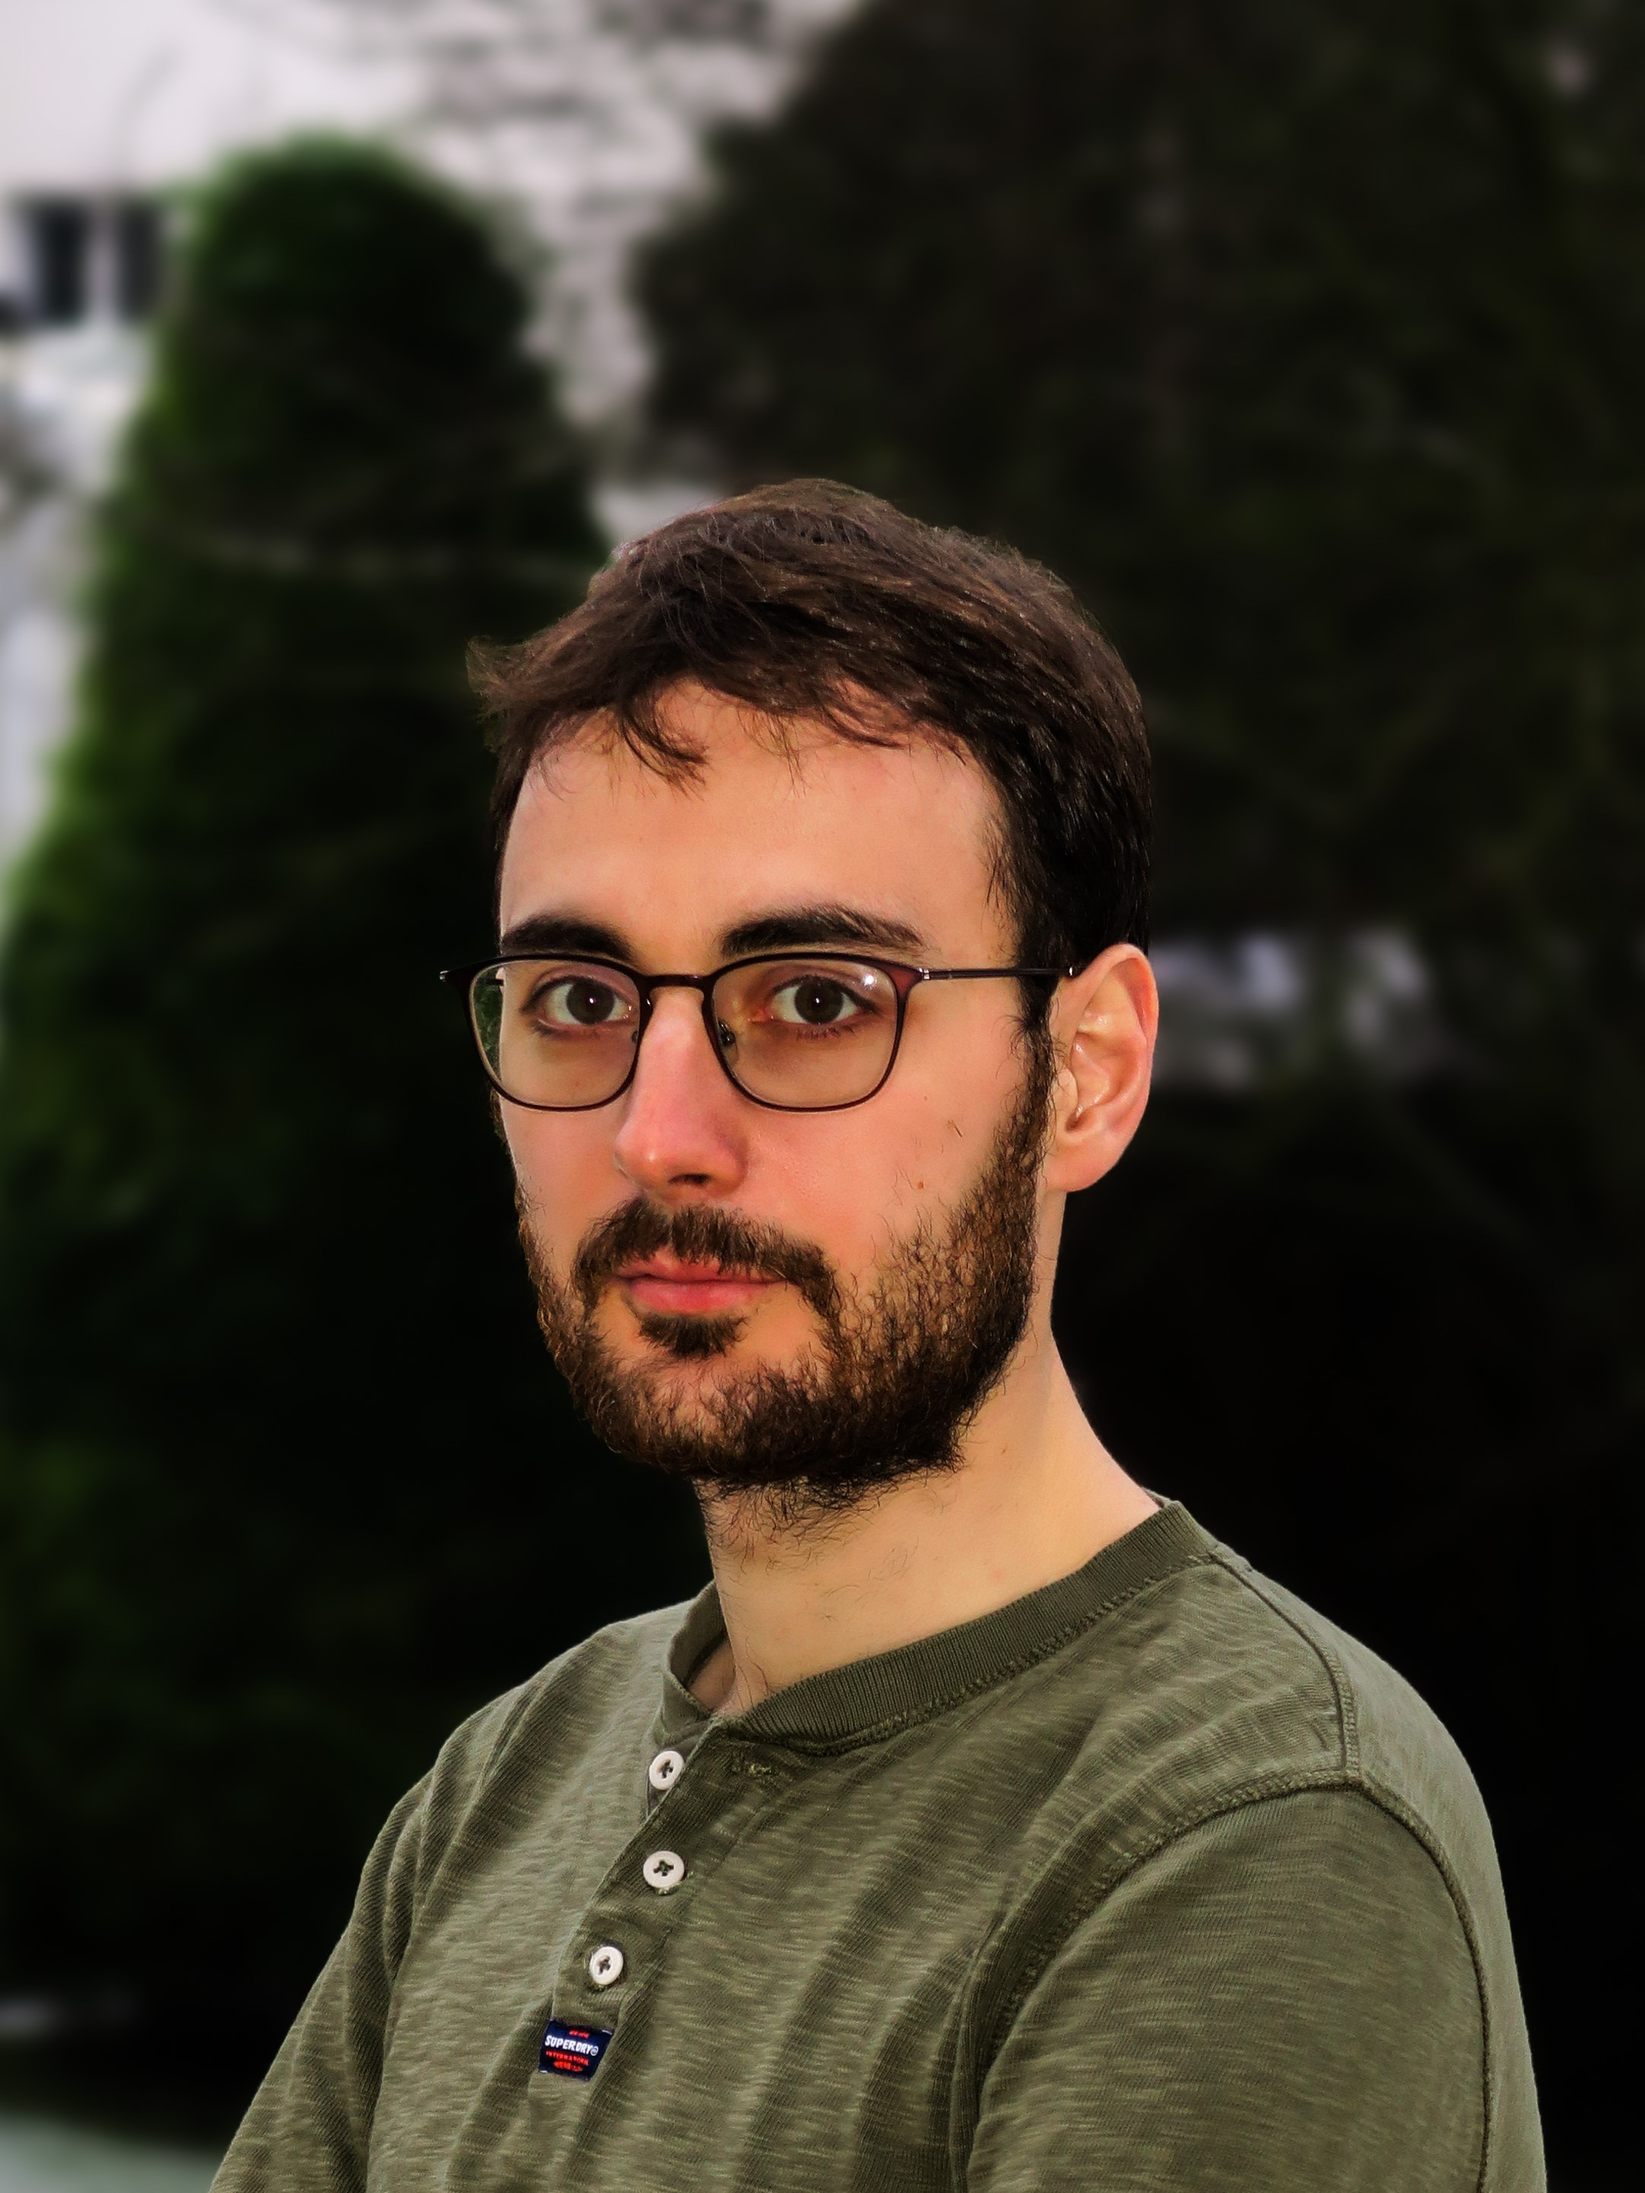
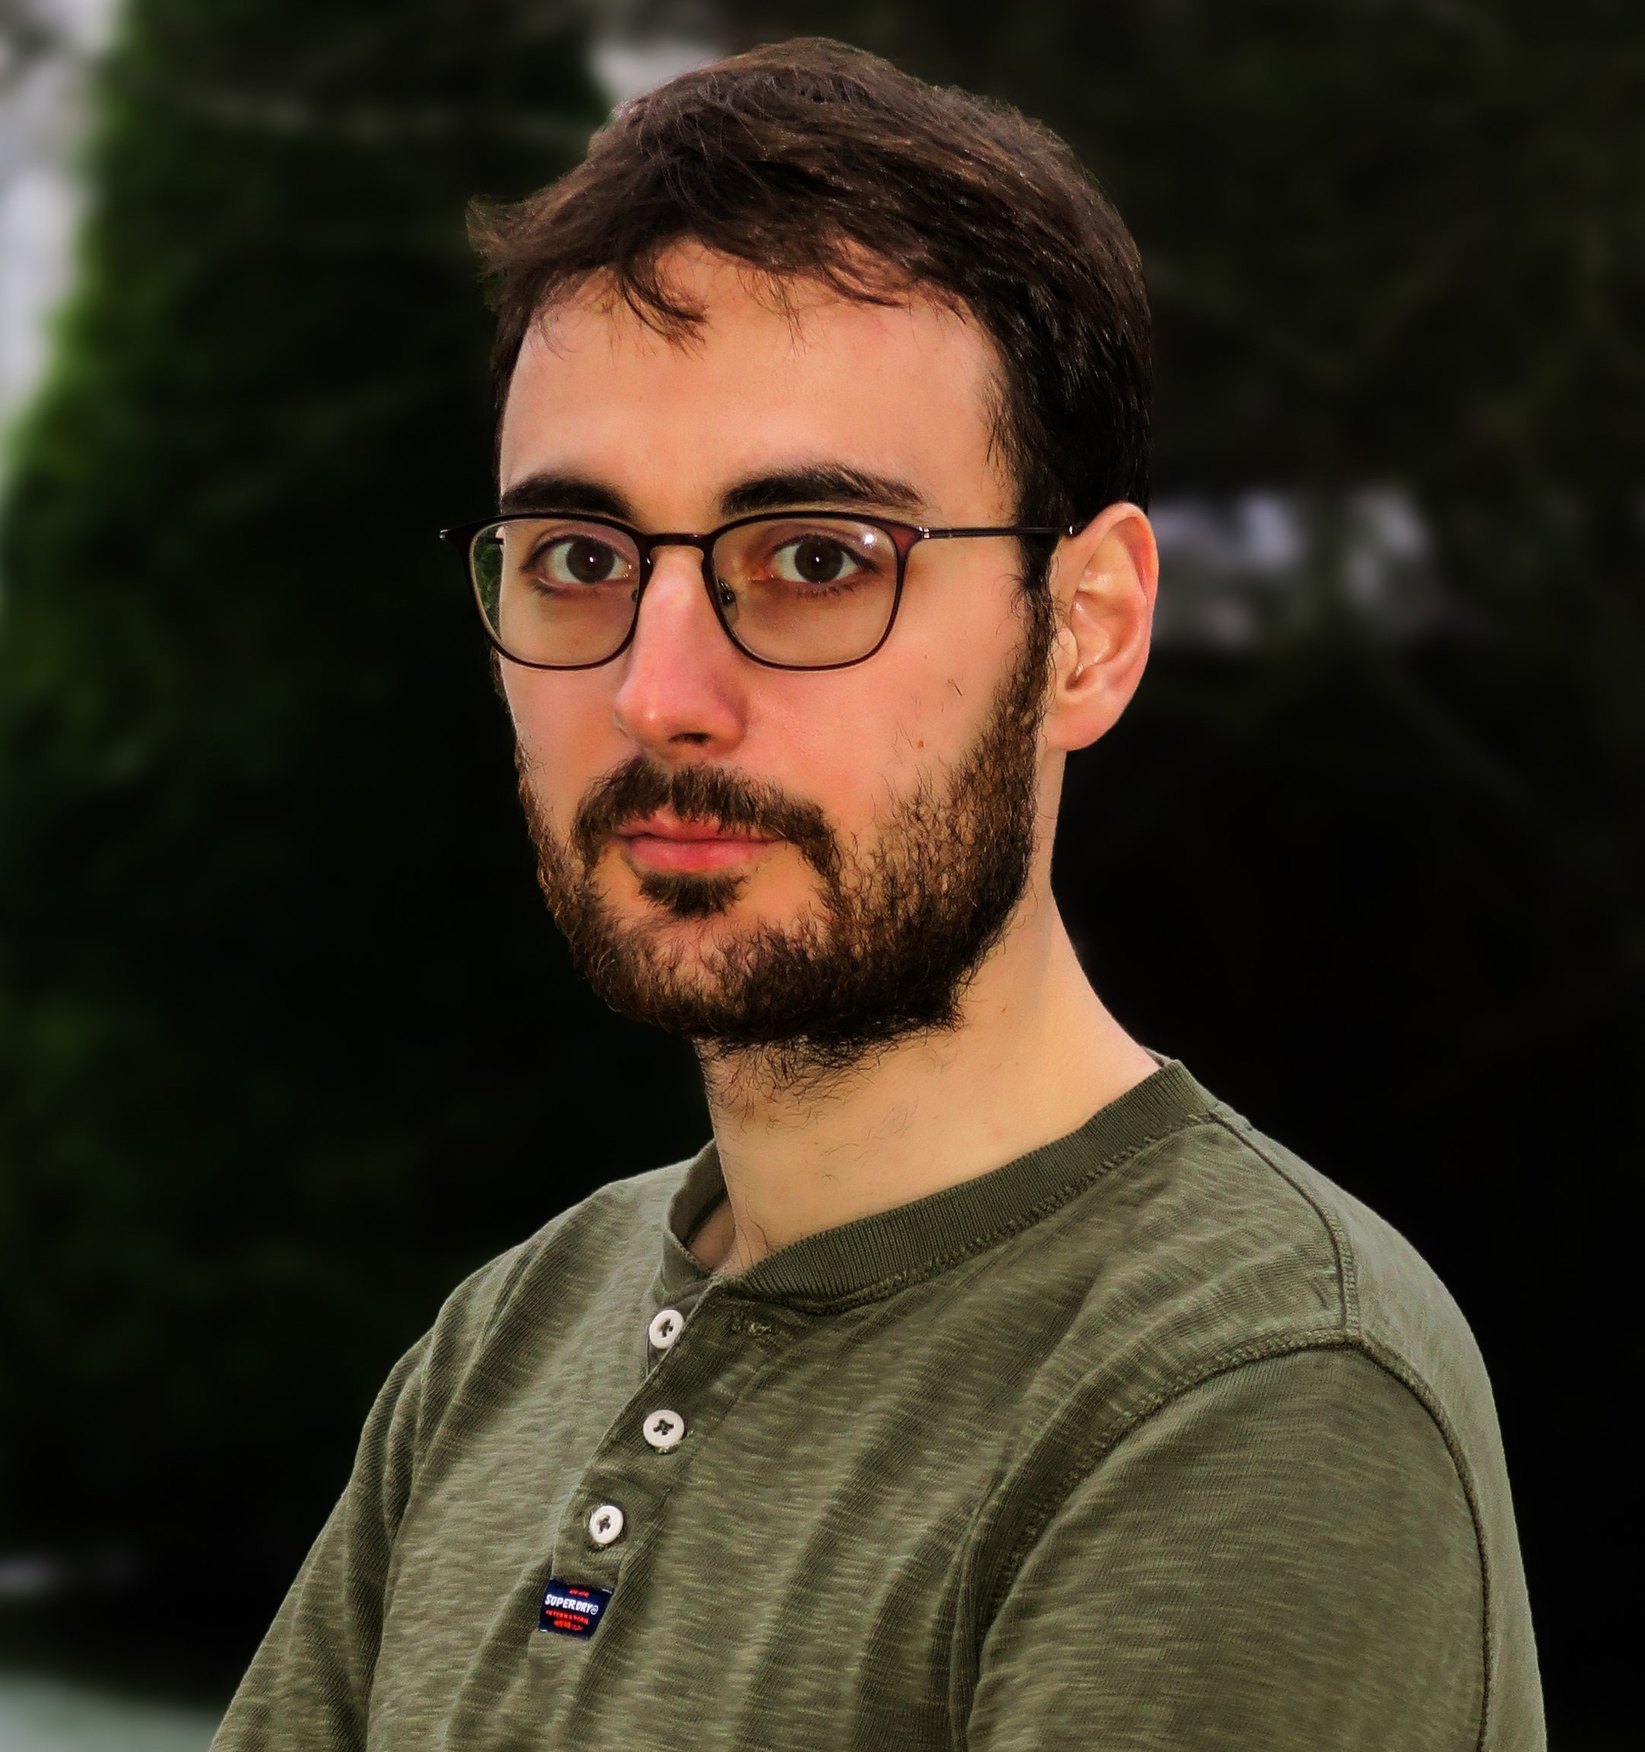
Update committee members' picture

diff --git a/_pages/committees/organization.md b/_pages/committees/organization.md
@@ -225,7 +225,7 @@ email = ""
 
 {% include committee-member.html
 name="Loic Barrault"
-picture="/assets/images/committee/leonardo_ribeiro.png"
+picture="/assets/images/committee/loic_barrault.png"
 site="https://loicbarrault.github.io/"
 institution="Meta AI"
 email = ""
